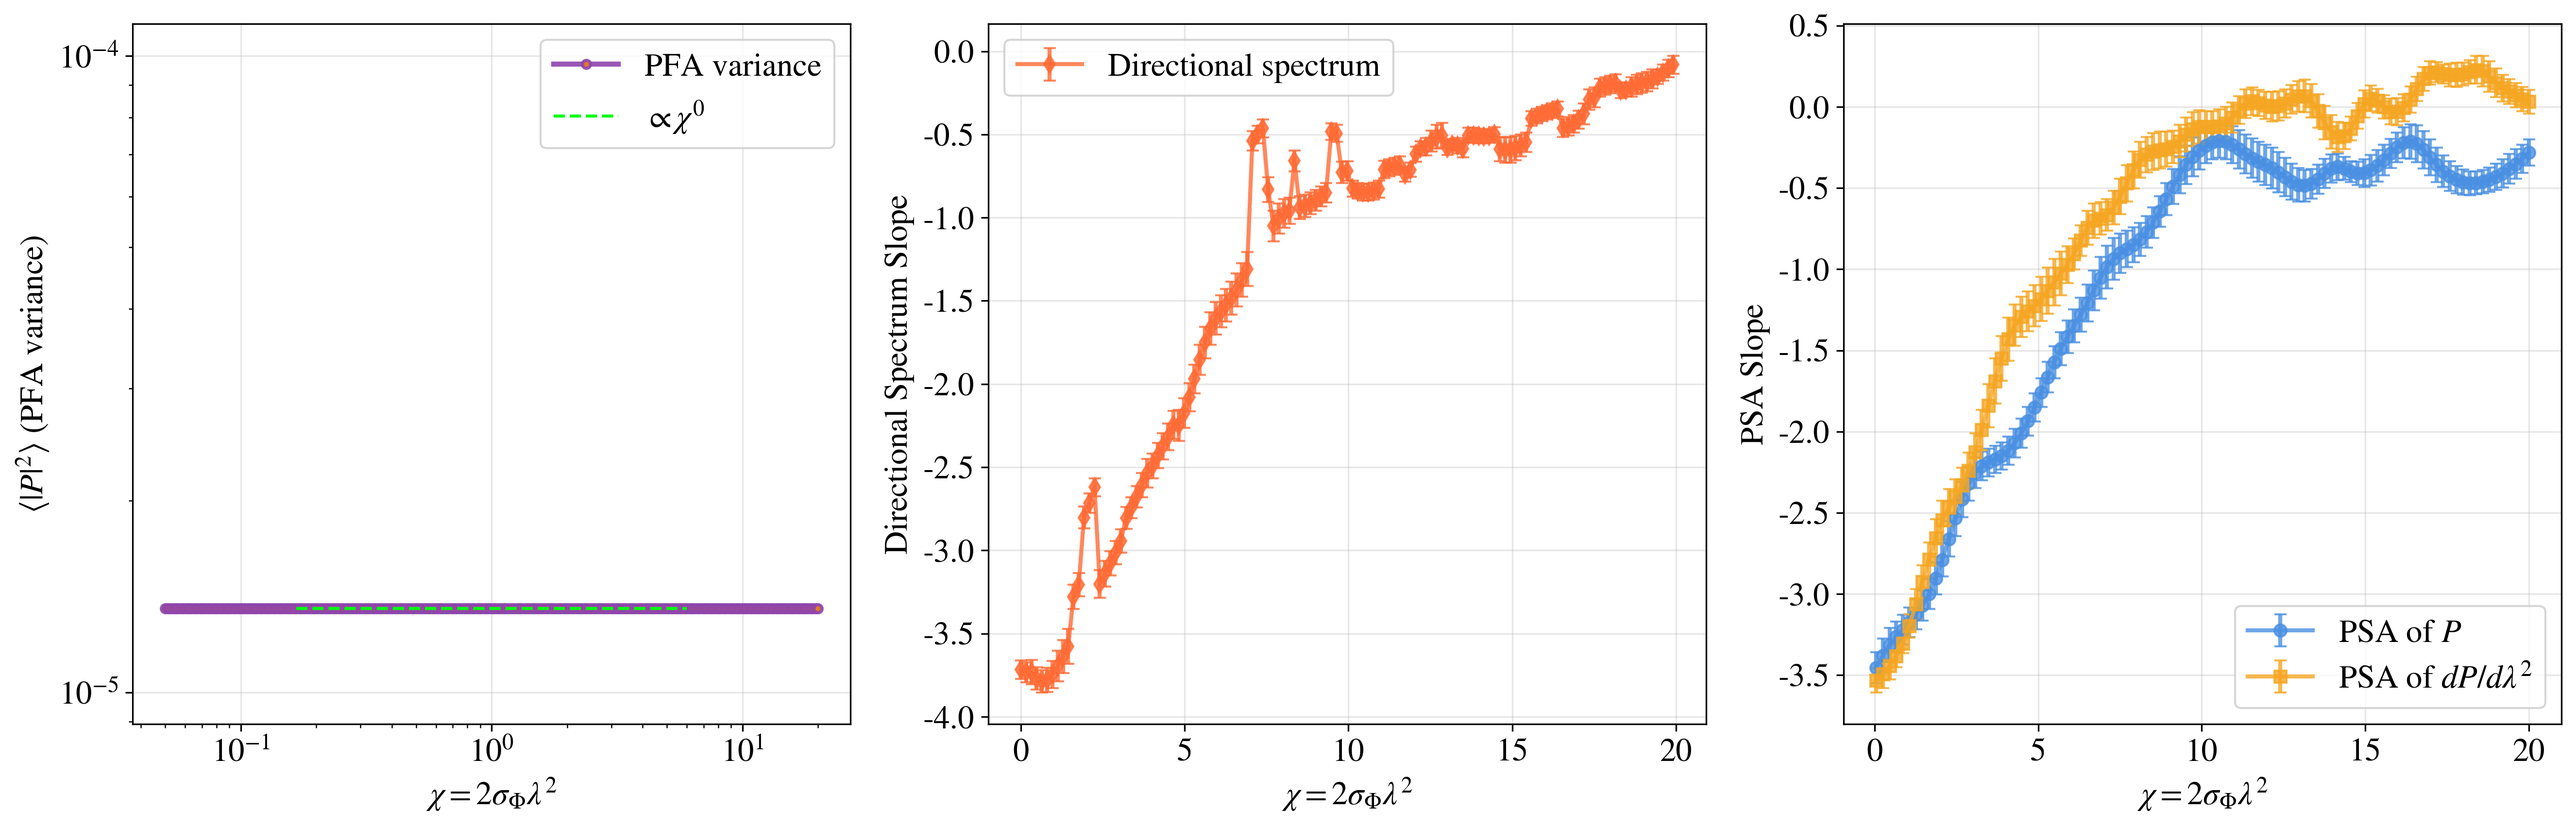
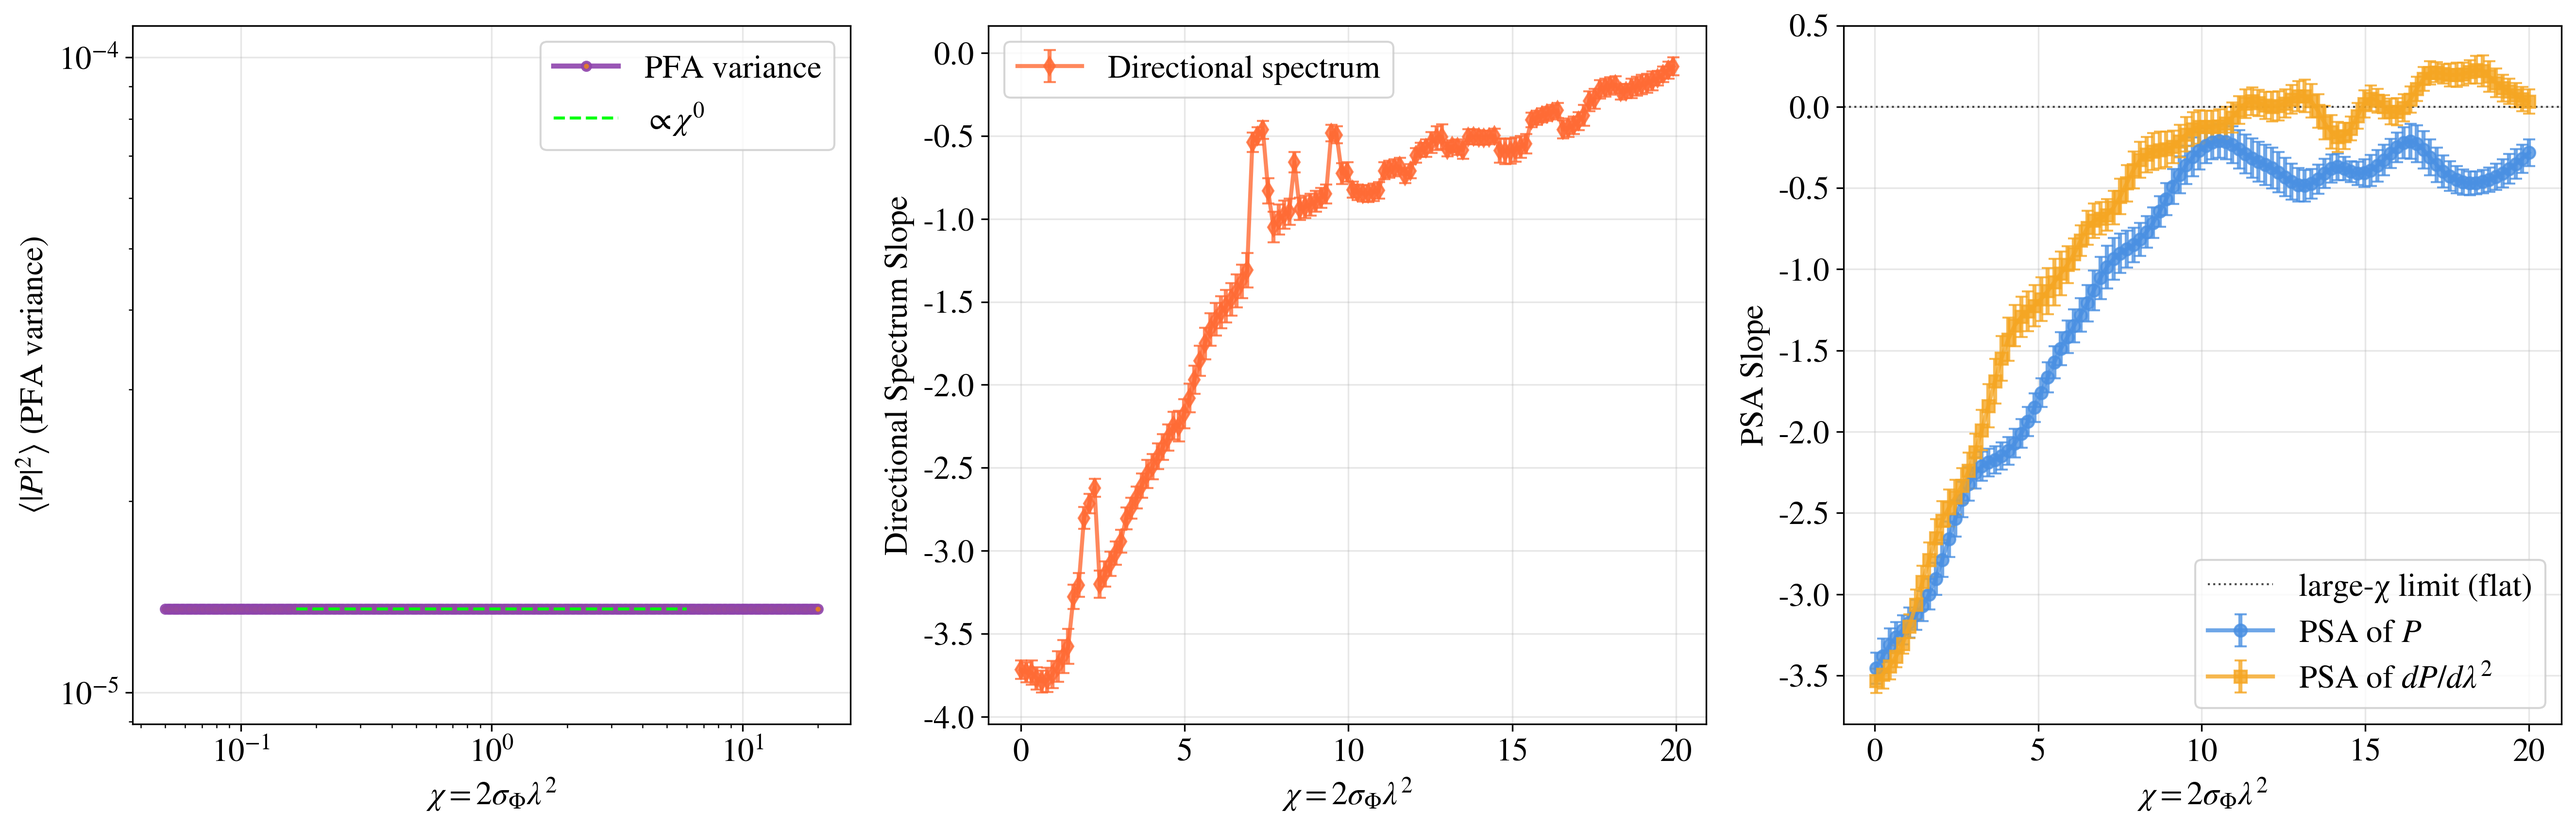
PSA/PFA/Directional comparison

diff --git a/compare_measures/reproduce_directional_spectrum.py b/compare_measures/reproduce_directional_spectrum.py
@@ -38,7 +38,8 @@ def load_npz_data(npz_path: str):
     if not os.path.exists(npz_path):
         raise FileNotFoundError(f"NPZ file not found: {npz_path}")
     
-    data = np.load(npz_path)
+    # Load with allow_pickle=True to handle dict objects like fit_bounds and psa_kwargs
+    data = np.load(npz_path, allow_pickle=True)
     
     # Determine data type based on available keys
     if 'lam_arr' in data and 'slopes_dir' in data:
@@ -197,25 +198,75 @@ def reproduce_psa_slopes_plot(npz_path: str, output_path: str = None):
     slopes_dP = data['slopes_dP']
     errors_P = data['errors_P']
     errors_dP = data['errors_dP']
-    sigmaPhi0 = float(data['sigmaPhi0'])
+    sigmaPhi0 = float(data['sigmaPhi0']) if 'sigmaPhi0' in data else float('nan')
+    
+    # Get geometry and baseline slopes if available
+    geometry = str(data['geometry']) if 'geometry' in data else 'mixed'
+    m0 = float(data['emitter_baseline_slope']) if 'emitter_baseline_slope' in data else None
+    A = float(data['structure_function_A']) if 'structure_function_A' in data else None
+    m = float(data['structure_function_m']) if 'structure_function_m' in data else None
+    # Handle fit_bounds - it may be a dict (object array) or saved as separate values
+    if 'fit_bounds' in data:
+        fit_bounds_raw = data['fit_bounds']
+        if fit_bounds_raw.dtype == object:
+            # Object array (dict) - use item() to extract
+            fit_bounds = dict(fit_bounds_raw.item())
+        else:
+            # Already a dict-like structure
+            fit_bounds = dict(fit_bounds_raw)
+    else:
+        fit_bounds = {'kmin': 4, 'kmax': 25}
     
     print(f"Reproducing PSA slopes plot from: {npz_path}")
     print(f"Data points: {len(chi_values)}")
     print(f"Chi range: {chi_values.min():.2f} to {chi_values.max():.2f}")
     print(f"P slopes range: {slopes_P.min():.2f} to {slopes_P.max():.2f}")
     print(f"dP slopes range: {slopes_dP.min():.2f} to {slopes_dP.max():.2f}")
+    if m0 is not None:
+        print(f"Emitter baseline slope (small-χ asymptote): {m0:.2f}")
+        print(f"Large-χ asymptote: m → 0")
+    if A is not None and m is not None:
+        print(f"Structure function: D_Φ(r) ≈ {A:.3e} r^{m:.2f}")
     
     # Create combined plot (same as run_spatial_psa_comparison.py)
-    plt.figure(figsize=(10, 6))
-    plt.errorbar(chi_values, slopes_P, yerr=errors_P, fmt='o-', capsize=3, 
+    ax = plt.gca() if plt.gcf().get_axes() else None
+    if ax is None:
+        plt.figure(figsize=(10, 6))
+        ax = plt.gca()
+    
+    ax.errorbar(chi_values, slopes_P, yerr=errors_P, fmt='o-', capsize=3, 
                  label='PSA of $P$', color='blue', alpha=0.7)
-    plt.errorbar(chi_values, slopes_dP, yerr=errors_dP, fmt='s-', capsize=3, 
+    ax.errorbar(chi_values, slopes_dP, yerr=errors_dP, fmt='s-', capsize=3, 
                  label='PSA of $dP/d\\lambda^2$', color='red', alpha=0.7)
-    plt.xlabel('$\\chi = 2\\sigma_\\Phi \\lambda^2$')
-    plt.ylabel('PSA Slope')
-    plt.title('PSA Slopes vs $\\chi$ (Mixed Geometry, Random-Dominated)')
-    plt.grid(True, alpha=0.3)
-    plt.legend()
+    
+    # Add horizontal reference lines for separated geometry (two asymptotes)
+    if geometry == 'separated' or geometry.startswith('separated'):
+        if m0 is not None:
+            ax.axhline(m0, ls='--', lw=1.0, color='k', alpha=0.6, 
+                       label='separated baseline (small-χ)')
+        ax.axhline(0.0, ls=':', lw=1.0, color='k', alpha=0.7, 
+                   label='large-χ limit (flat)')
+        # Add transitional prediction curve if structure function parameters are available
+        if A is not None and m is not None and m0 is not None:
+            k1, k2 = fit_bounds.get('kmin', 4), fit_bounds.get('kmax', 25)
+            kstar = np.sqrt(k1 * k2)
+            kphi = (A ** (1.0 / m)) * (np.array(chi_values) ** (2.0 / m))
+            q = 1.0  # default soft-edge parameter
+            s = 1.0 / (1.0 + (kphi / kstar) ** q)
+            mfit = m0 * s
+            ax.plot(chi_values, mfit, 'k-', lw=1.5, label=f"separated-screen prediction (m≈{m:.2f})")
+        # Set y-axis limits for better visualization
+        ymin, ymax = -3.8, 0.5
+        ax.set_ylim(ymin, ymax)
+    
+    ax.set_xlabel('$\\chi = 2\\sigma_\\Phi \\lambda^2$')
+    ax.set_ylabel('PSA Slope')
+    if geometry == 'separated' or geometry.startswith('separated'):
+        ax.set_title('PSA Slopes vs $\\chi$ (Separated Screen)')
+    else:
+        ax.set_title('PSA Slopes vs $\\chi$ (Mixed Geometry, Random-Dominated)')
+    ax.grid(True, alpha=0.3)
+    ax.legend()
     
     # Save the plot
     if output_path is None:
@@ -474,10 +525,48 @@ def create_combined_panel_plot(npz_dir: str = None):
             errors_P = data['errors_P']
             errors_dP = data['errors_dP']
             
+            # Get geometry and baseline slopes if available
+            geometry = str(data['geometry']) if 'geometry' in data else 'mixed'
+            m0 = float(data['emitter_baseline_slope']) if 'emitter_baseline_slope' in data else None
+            A = float(data['structure_function_A']) if 'structure_function_A' in data else None
+            m = float(data['structure_function_m']) if 'structure_function_m' in data else None
+            # Handle fit_bounds - it may be a dict (object array) or saved as separate values
+            if 'fit_bounds' in data:
+                fit_bounds_raw = data['fit_bounds']
+                if fit_bounds_raw.dtype == object:
+                    # Object array (dict) - use item() to extract
+                    fit_bounds = dict(fit_bounds_raw.item())
+                else:
+                    # Already a dict-like structure
+                    fit_bounds = dict(fit_bounds_raw)
+            else:
+                fit_bounds = {'kmin': 4, 'kmax': 25}
+            
             axes[2].errorbar(chi_values, slopes_P, yerr=errors_P, fmt='o-', capsize=3, 
                             label='PSA of $P$', color='#4A90E2', linewidth=2, alpha=0.8)
             axes[2].errorbar(chi_values, slopes_dP, yerr=errors_dP, fmt='s-', capsize=3, 
                             label='PSA of $dP/d\\lambda^2$', color='#F5A623', linewidth=2, alpha=0.8)
+            
+            # Add horizontal reference lines for separated geometry (two asymptotes)
+            if geometry == 'separated' or geometry.startswith('separated'):
+                if m0 is not None:
+                    axes[2].axhline(m0, ls='--', lw=1.0, color='k', alpha=0.6, 
+                                   label='separated baseline (small-χ)')
+                axes[2].axhline(0.0, ls=':', lw=1.0, color='k', alpha=0.7, 
+                               label='large-χ limit (flat)')
+                # Add transitional prediction curve if structure function parameters are available
+                if A is not None and m is not None and m0 is not None:
+                    k1, k2 = fit_bounds.get('kmin', 4), fit_bounds.get('kmax', 25)
+                    kstar = np.sqrt(k1 * k2)
+                    kphi = (A ** (1.0 / m)) * (np.array(chi_values) ** (2.0 / m))
+                    q = 1.0  # default soft-edge parameter
+                    s = 1.0 / (1.0 + (kphi / kstar) ** q)
+                    mfit = m0 * s
+                    axes[2].plot(chi_values, mfit, 'k-', lw=1.5, label=f"separated-screen prediction (m≈{m:.2f})")
+                # Set y-axis limits for better visualization
+                ymin, ymax = -3.8, 0.5
+                axes[2].set_ylim(ymin, ymax)
+            
             axes[2].set_xlabel('$\\chi = 2\\sigma_\\Phi \\lambda^2$')
             axes[2].set_ylabel('PSA Slope')
             # axes[2].set_title('PSA Slopes vs $\\chi$')
